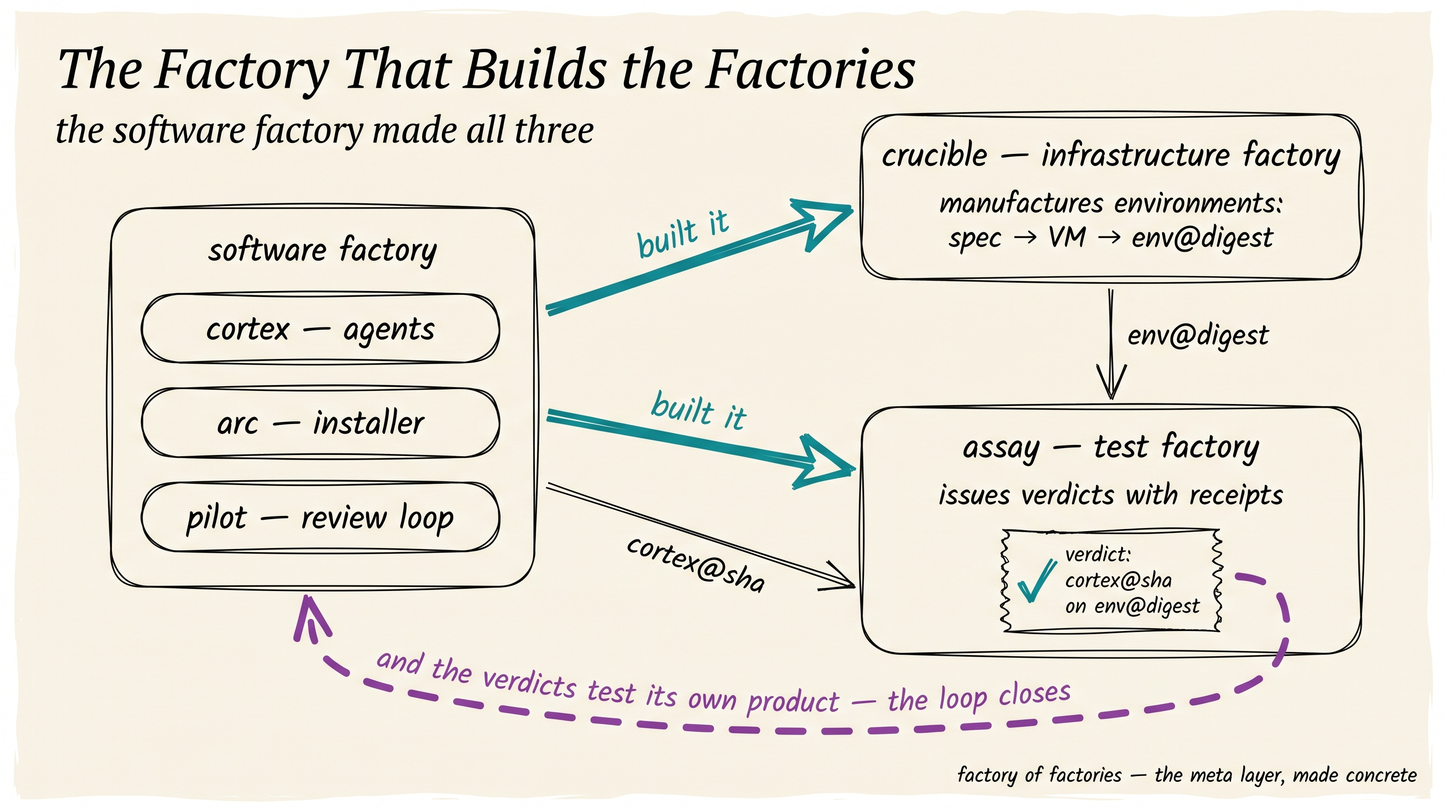
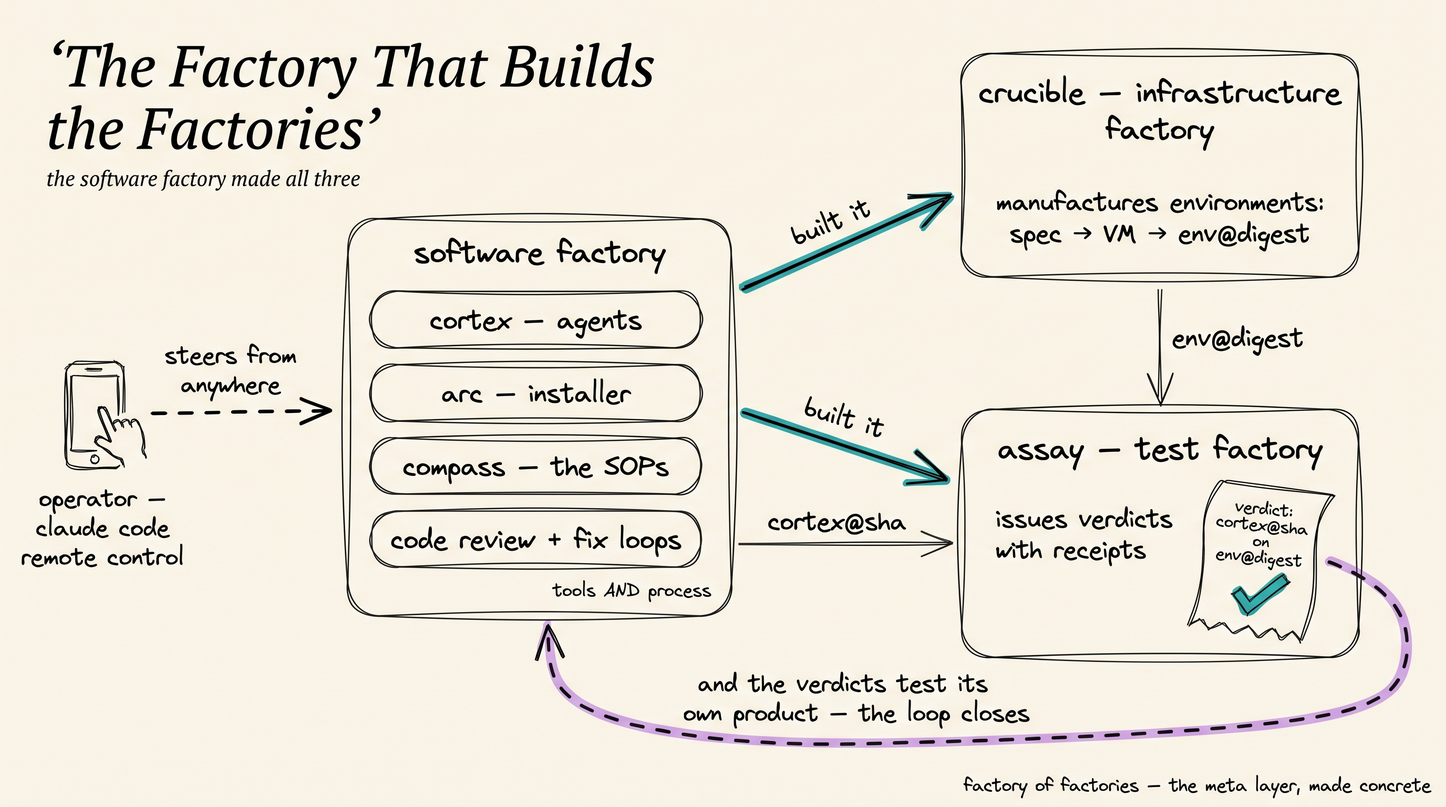
docs: exploded software-factory view; smithy credited; remote control + task-ledger named
The factory is tools AND process: compass SOPs, code-review/fix
loops, the session task list as wave ledger, Claude Code remote
control keeping the line moving. smithy called out as crucible's
reference implementation.

diff --git a/factory-of-factories.md b/factory-of-factories.md
@@ -151,7 +151,10 @@ Each half of that stamp is a factory speaking:
   [arc](https://github.com/the-metafactory/arc), and the install
   proves the pin rather than trusting it.
 - The **infrastructure factory**
-  ([crucible](https://github.com/the-metafactory/crucible)) produced
+  ([crucible](https://github.com/the-metafactory/crucible), whose
+  reference implementation is
+  [smithy](https://github.com/vpzed-dev/smithy) — a community
+  workshop below the provider seam) produced
   the `env@<digest>` — a VM manufactured from a spec, fingerprinted,
   and identified by nothing mutable: destroy it, rebuild it, and the
   digest either matches or the environment must explain itself.
@@ -170,13 +173,31 @@ different providers, stay legible to each other at a seam instead of
 an integration project.
 
 And the recursion that earns the name: the software factory built
-the other two. assay and crucible are themselves products of
-cortex-driven dev loops, installed by arc, reviewed through pilot —
-and the verdicts assay issues test the software factory's own
-product. The factory of factories is not a fourth factory standing
-outside the three; it is the loop the three close.
+the other two — and that factory is more than its tools. It is
+cortex agents and arc installs, but just as much the process:
+[compass](https://github.com/the-metafactory/compass)'s SOPs that
+run the loop — plan-breakdown turning frontier plans into
+executor-grade issues, the dev loop dispatching clean-room builders,
+the code-review-and-fix cycle gating every merge. assay and crucible
+are products of that loop, and the verdicts assay issues test the
+loop's own product. Honest-tense applies here too: today the
+narrating agent drives its communication surface through Discord
+skills rather than through cortex adapters — the factory's process
+is ahead of its plumbing, and the gap is recorded, not hidden. What
+keeps the line moving between desk sessions is Claude Code's remote
+control: the operator steers the same running sessions from
+anywhere, so the factory floor never waits for a chair. The
+factory of factories is not a fourth factory standing outside the
+three; it is the loop the three close.
 
 ![The factory that builds the factories](assets/factory-of-factories-recursion.jpg)
+
+And the software factory itself, exploded — the operator steering by
+remote control, the agent substrate, the SOPs (with the session task
+list as the plan-breakdown's wave ledger), the skills, and the hand
+tools, with smithy tagged where the products land:
+
+![Inside the software factory](assets/software-factory-exploded.jpg)
 
 This is also the honest state of the warning label: the wiring is
 tracked in
